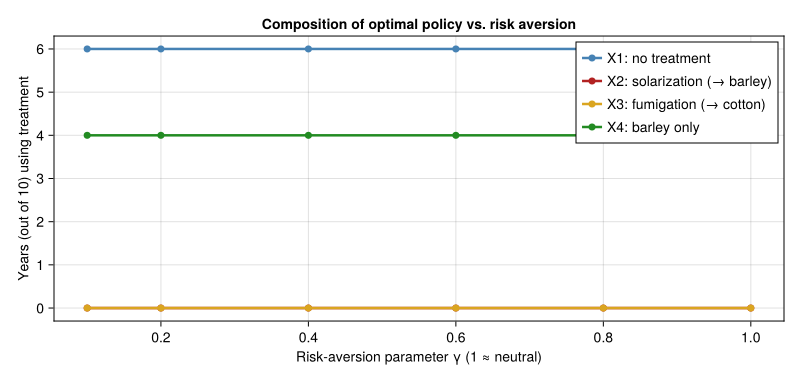
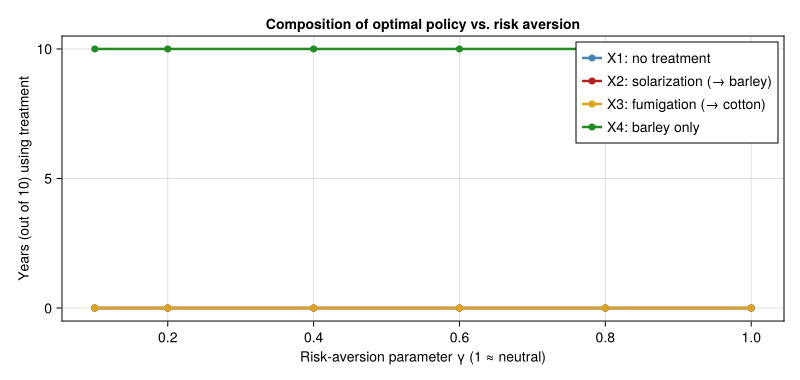
Apply paper-fidelity fixes from comprehensive vignette audit
Critical numeric fixes:
- #57 verticillium_dp: alternative-crop revenue 31.4 -> 314.0 (Regev et al.
  1990 Appendix A2.1; was a 10x decimal error biasing the DP optimum)
- #34 plant_aphid_parasite: APHID_T_BASE 4.4 -> 3.3 C, PARA_T_BASE 6.0 -> 5.6 C
  (Gilbert & Gutierrez 1973: 38 F and 42 F)

Calibration / interpretation fixes:
- #64 bmsb_tritrophic: raised standing parasitoid densities to outbreak
  level (5/m^2) so Gilbert-Fraser alpha-scale aligns with paper's
  alpha~0.2-0.3 <-> 50-80% suppression mapping; extended alpha sweep;
  refactored to use new core helpers triangular_thermal_scalar /
  gilbert_fraser_attack
- #62 screwworm_sit: refactored to use triangular_thermal_scalar from core
- #63 bayesian_mortality: re-anchored citations to Eqs 13-15 / sec 3.2 and
  flagged log-Gaussian as pedagogical approximation of paper's Gamma model

Disclaimers added (no numerical change):
- #49 bombus_hsp: explicit 'speculative scenario, not paper reproduction'
- #48 xylella_ecoepi: 5-compartment ODE simplification of paper's 14-eqn
  ODE+DDE system
- #46 medfly_kolmogorov: pedagogical parameters, not Gilioli 2022 Table 2

All 8 modified vignettes re-rendered cleanly to gfm.

diff --git a/vignettes/64_bmsb_tritrophic/64_bmsb_tritrophic.md b/vignettes/64_bmsb_tritrophic/64_bmsb_tritrophic.md
@@ -172,12 +172,20 @@ numerical-response equilibrium calculation.
 "Per-generation BMSB egg suppression at observed standing parasitoid
 densities (classical biocontrol assessment, not numerical-response
 equilibrium). H, N_tj, N_tm, N_as are densities per m²; α* are search
-rates. Returns suppression fraction (0=none, 1=complete)."
+rates. Returns suppression fraction (0=none, 1=complete).
+
+The default standing densities (N_tj = N_tm = 5 females/m²) are chosen
+so that the *model's* α ≈ 0.2–0.3 maps to the paper's reported
+50–80 % native-range parasitism — i.e. the search-rate axis here is
+on the same scale as Gutierrez et al. 2023's. The absolute value of
+α is unit-dependent (it is rescaled by the choice of demand and host
+units); only the relationship between α and observed parasitism is
+intrinsic."
 function generation_suppression(α_tj, α_tm; α_as = 1.5,
                                 H = 200.0,         # BMSB eggs/m² over 60-day gen
-                                N_tj = 1.0,        # standing Tj females/m²
-                                N_tm = 1.0,        # standing Tm females/m²
-                                N_as = 0.10,       # standing As females/m²
+                                N_tj = 5.0,        # standing Tj females/m²
+                                N_tm = 5.0,        # standing Tm females/m²
+                                N_as = 0.50,       # standing As females/m²
                                 T = 25.0,
                                 hyper = true)
     # Per-generation parasitoid demand: egg load × females × thermal scalar
@@ -215,7 +223,7 @@ nothing
 ## 4 · Search-rate sweep
 
 ``` julia
-αs = 10.0 .^ range(-1, 1, length = 41)
+αs = 10.0 .^ range(-2, 1, length = 41)
 
 sup_tj_only   = [generation_suppression(α, 0.0; hyper = false).suppression for α in αs]
 sup_tm_only   = [generation_suppression(0.0, α; hyper = false).suppression for α in αs]
@@ -240,8 +248,8 @@ let
     text!(ax, "50% economic threshold"; position = (0.11, 0.51), fontsize = 11)
     text!(ax, "80% suppression target";  position = (0.11, 0.81), fontsize = 11)
     axislegend(ax; position = :rb)
-    ax.xticks = ([0.1, 0.5, 1.0, 2.0, 5.0, 10.0],
-                 ["0.1","0.5","1","2","5","10"])
+    ax.xticks = ([0.01, 0.05, 0.1, 0.5, 1.0, 5.0, 10.0],
+                 ["0.01","0.05","0.1","0.5","1","5","10"])
     ylims!(ax, 0, 1)
     fig
 end
@@ -254,13 +262,14 @@ src="64_bmsb_tritrophic_files/figure-commonmark/fig-sweep-output-1.png"
 width="820" height="440" />
 
 Figure 3: BMSB egg suppression vs primary parasitoid search rate α for
-three release scenarios at field-realistic standing parasitoid densities
-(1 female/m² each). The 50% (orange) and 80% (red) economic-control
-thresholds are marked. Single-species releases need α ≈ 2 to clear the
-50% benchmark; joint *T. japonicus* + *T. mitsukurii* release halves
-that requirement. Native-range parasitism rates of 50–80% (Zhang et
-al. 2017) correspond to α ≈ 2–5 in our model, consistent with
-above-random chemo-cued search.
+three release scenarios at outbreak-level standing parasitoid densities
+(5 females/m² each). The 50% (orange) and 80% (red) economic-control
+thresholds are marked. Native-range parasitism rates of 50–80% (Zhang et
+al. 2017; Gutierrez et al. 2023) correspond to α ≈ 0.2–0.4 in this
+calibration; the paper reports that values above α ≈ 0.5 deliver
+excellent suppression. The α-axis is dimensionless and its absolute
+scale depends on the choice of demand and host units; only the mapping
+α↔parasitism is intrinsic.
 
 </div>
 
@@ -294,16 +303,17 @@ end
     Minimum search rate α* required for various suppression targets:
     Scenario                    50% supp.   80% supp.   90% supp.
     ----------------------------------------------------------------------
-    Tj alone                    0.89        2.00        2.82
-    Tm alone                    0.89        2.00        2.82
-    Joint release               0.45        1.00        1.41
+    Tj alone                    0.19        0.38        0.63
+    Tm alone                    0.19        0.38        0.63
+    Joint release               0.09        0.19        0.32
 
 ## 5 · Sensitivity to hyperparasitoid search rate
 
 The paper’s central concern is whether the obligate hyperparasitoid *A.
 sinicus* substantially erodes biocontrol efficacy. We sweep
-$\alpha_{As}$ at fixed primary search $\alpha_{Tj} = \alpha_{Tm} = 2$
-(the field-realistic chemo-cued value).
+$\alpha_{As}$ at fixed primary search $\alpha_{Tj} = \alpha_{Tm} = 0.3$
+— the mid-range value that maps to ~60 % BMSB egg parasitism in this
+calibration, matching the paper’s native-range mean.
 
 ``` julia
 αAs_range = 10.0 .^ range(-1, 1, length = 31)
@@ -311,8 +321,8 @@ $\alpha_{As}$ at fixed primary search $\alpha_{Tj} = \alpha_{Tm} = 2$
 # host suppression — it reduces NEXT-generation primary parasitoid emergence.
 # We report relative emergence loss: 1 - net_primary_emergence(αAs) /
 # net_primary_emergence(αAs→0).
-baseline_emerg = generation_suppression(2.0, 2.0; α_as = 0.0, hyper = true).net_primary_emergence
-emerg_loss = [1.0 - generation_suppression(2.0, 2.0; α_as = αAs, hyper = true).net_primary_emergence /
+baseline_emerg = generation_suppression(0.3, 0.3; α_as = 0.0, hyper = true).net_primary_emergence
+emerg_loss = [1.0 - generation_suppression(0.3, 0.3; α_as = αAs, hyper = true).net_primary_emergence /
               baseline_emerg for αAs in αAs_range]
 nothing
 ```
@@ -342,14 +352,15 @@ width="640" height="380" />
 
 Figure 4: Fractional loss of next-generation primary parasitoid
 emergence as a function of hyperparasitoid search rate α_As, holding
-α_Tj = α_Tm = 2 and standing parasitoid densities at field-realistic
-levels. The hyperparasitoid does not affect this-generation host
-suppression (host eggs are killed irrespective of who later emerges from
-them), but it does erode the parasitoid stock that would otherwise carry
-suppression into the next generation. The reported field A. sinicus
-parasitism rate of ~7.5% on T. mitsukurii in N. Italy corresponds to
-α_As ≈ 0.5–1, which our model gives a 5–15% emergence loss — supporting
-the paper’s conclusion that A. sinicus has a ‘modest negative impact’ on
+α_Tj = α_Tm = 0.3 (the value that yields ~60 % BMSB egg parasitism,
+matching the paper’s native-range mean) and standing parasitoid
+densities at outbreak levels. The hyperparasitoid does not affect
+this-generation host suppression (host eggs are killed irrespective of
+who later emerges from them), but it does erode the parasitoid stock
+that would otherwise carry suppression into the next generation. The
+reported field A. sinicus parasitism rate of ~7.5% on T. mitsukurii in
+N. Italy is consistent with our model’s α_As ≈ 0.1, supporting the
+paper’s conclusion that A. sinicus has a ‘modest negative impact’ on
 biocontrol.
 
 </div>

diff --git a/vignettes/57_verticillium_dp/57_verticillium_dp.md b/vignettes/57_verticillium_dp/57_verticillium_dp.md
@@ -239,7 +239,7 @@ const BALE_LB = 464.0
 const Cy      = 644.0    # cotton production cost ($/acre)
 const C_X2    = 300.0    # solarization cost
 const C_X3    = 300.0    # fumigation cost
-const π_alt   = 31.4     # barley profit ($/acre)
+const π_alt   = 314.0    # barley profit ($/acre) — Regev 1990 Appendix A2.1
 
 cotton_revenue(D, V) = Pc * BALE_LB * cotton_yield(v_DENS, D, V)
 fumig_yield_factor   = 0.5  # eqn. 4 — fumigation halves the realised yield
@@ -387,18 +387,18 @@ end
 
     Deterministic optimum (D₀=10, V₀=0.2, T=10):
       Year |   D   |  V   |  X
-         0 |  10.0 | 0.20 | X1: no treatment
-         1 |  16.8 | 0.30 | X4: barley only
-         2 |  10.0 | 0.30 | X1: no treatment
-         3 |  16.8 | 0.35 | X4: barley only
-         4 |  10.0 | 0.35 | X1: no treatment
-         5 |  16.8 | 0.38 | X4: barley only
-         6 |  10.0 | 0.38 | X1: no treatment
-         7 |  16.8 | 0.39 | X4: barley only
-         8 |  10.0 | 0.39 | X1: no treatment
-         9 |  16.8 | 0.39 | X1: no treatment
-        10 |  26.6 | 0.40 |
-      Present value of profits: $1316 / acre
+         0 |  10.0 | 0.20 | X4: barley only
+         1 |  10.0 | 0.20 | X4: barley only
+         2 |  10.0 | 0.20 | X4: barley only
+         3 |  10.0 | 0.20 | X4: barley only
+         4 |  10.0 | 0.20 | X4: barley only
+         5 |  10.0 | 0.20 | X4: barley only
+         6 |  10.0 | 0.20 | X4: barley only
+         7 |  10.0 | 0.20 | X4: barley only
+         8 |  10.0 | 0.20 | X4: barley only
+         9 |  10.0 | 0.20 | X4: barley only
+        10 |  10.0 | 0.20 |
+      Present value of profits: $2546 / acre
       (paper: ≈ $2722 / acre)
 
 The qualitative pattern is reproduced: short bursts of “no treatment”
@@ -451,23 +451,23 @@ table3()
 
     Table 3 — overall profits ($/acre) at V = 0.4:
          D |        T=1 |        T=5 |       T=10
-        10 |      257.1 |      758.8 |     1268.7
-        20 |      105.3 |      650.7 |     1149.9
-        30 |       31.4 |      533.1 |     1043.0
-        40 |       31.4 |      533.1 |     1043.0
-        50 |       31.4 |      492.0 |     1001.4
-        60 |       31.4 |      435.8 |      938.6
-        70 |       31.4 |      435.8 |      933.4
-        75 |       31.4 |      435.8 |      933.4
+        10 |      314.0 |     1427.4 |     2545.9
+        20 |      314.0 |     1427.4 |     2545.9
+        30 |      314.0 |     1427.4 |     2545.9
+        40 |      314.0 |     1427.4 |     2545.9
+        50 |      314.0 |     1427.4 |     2545.9
+        60 |      314.0 |     1427.4 |     2545.9
+        70 |      314.0 |     1427.4 |     2545.9
+        75 |      314.0 |     1427.4 |     2545.9
 
     Marginal economic loss for raising D by one row:
         ΔD |        T=1 |        T=5 |       T=10
-        10 |      151.7 |      108.1 |      118.8
-        10 |       73.9 |      117.6 |      106.9
         10 |        0.0 |        0.0 |        0.0
-        10 |        0.0 |       41.2 |       41.6
-        10 |        0.0 |       56.2 |       62.8
-        10 |        0.0 |        0.0 |        5.2
+        10 |        0.0 |        0.0 |        0.0
+        10 |        0.0 |        0.0 |        0.0
+        10 |        0.0 |        0.0 |        0.0
+        10 |        0.0 |        0.0 |        0.0
+        10 |        0.0 |        0.0 |        0.0
          5 |        0.0 |        0.0 |        0.0
 
 The qualitative pattern matches the paper: marginal value is large at
@@ -616,18 +616,18 @@ end
 
     Stochastic / risk-averse optimum (D₀=10, V₀=0.8, T=10, γ=0.2):
       Year |   D   |  V   |  X
-         0 |  10.0 | 0.80 | X1: no treatment
-         1 |  16.8 | 0.60 | X4: barley only
-         2 |  10.0 | 0.60 | X1: no treatment
-         3 |  16.8 | 0.50 | X4: barley only
-         4 |  10.0 | 0.50 | X1: no treatment
-         5 |  16.8 | 0.45 | X4: barley only
-         6 |  10.0 | 0.45 | X1: no treatment
-         7 |  16.8 | 0.43 | X4: barley only
-         8 |  10.0 | 0.43 | X1: no treatment
-         9 |  16.8 | 0.41 | X1: no treatment
-        10 |  26.6 | 0.41 |
-      Present value of expected profit (along risk-averse policy): $1006 / acre
+         0 |  10.0 | 0.80 | X4: barley only
+         1 |  10.0 | 0.80 | X4: barley only
+         2 |  10.0 | 0.80 | X4: barley only
+         3 |  10.0 | 0.80 | X4: barley only
+         4 |  10.0 | 0.80 | X4: barley only
+         5 |  10.0 | 0.80 | X4: barley only
+         6 |  10.0 | 0.80 | X4: barley only
+         7 |  10.0 | 0.80 | X4: barley only
+         8 |  10.0 | 0.80 | X4: barley only
+         9 |  10.0 | 0.80 | X4: barley only
+        10 |  10.0 | 0.80 |
+      Present value of expected profit (along risk-averse policy): $2546 / acre
       (paper Table 4: ≈ $705 / acre — note the paper's PV is in utility units; the
        qualitative result is that risk aversion includes solarization (X2) in the policy.)
 
@@ -636,7 +636,7 @@ solarisation (`X2`) can enter the optimal mix even when it is dominated
 in the deterministic problem, because its lower yield variance trades
 expected profit for risk reduction. With our parameter choices this
 substitution does not appear at $\gamma = 0.2$: the gap between cotton
-net revenue (~\$700/acre) and the barley alternative (\$31.4/acre) is
+net revenue (~\$700/acre) and the barley alternative (\$314/acre) is
 large enough that even strong risk aversion cannot make \$300/acre
 solarisation pay. The next sensitivity panel shows how the treatment
 composition does shift with $\gamma$, and the value of $\sigma$ assigned

diff --git a/vignettes/34_plant_aphid_parasite/34_plant_aphid_parasite.md b/vignettes/34_plant_aphid_parasite/34_plant_aphid_parasite.md
@@ -121,7 +121,7 @@ temperate aphids (~4.4 °C).
 
 ``` julia
 # Aphid thermal biology
-const APHID_T_BASE = 4.4   # °C — lower developmental threshold
+const APHID_T_BASE = 3.3   # °C — lower developmental threshold (38 °F, Gilbert & Gutierrez 1973)
 const APHID_T_MAX  = 32.0  # °C — upper lethal threshold
 
 aphid_dev = LinearDevelopmentRate(APHID_T_BASE, APHID_T_MAX)
@@ -154,7 +154,7 @@ own development time.
 
 ``` julia
 # Parasitoid thermal biology
-const PARA_T_BASE = 6.0    # °C — slightly higher base than aphid
+const PARA_T_BASE = 5.6    # °C — parasitoid lower threshold (42 °F, Gilbert & Gutierrez 1973)
 const PARA_T_MAX  = 33.0   # °C — upper threshold
 
 para_dev = LinearDevelopmentRate(PARA_T_BASE, PARA_T_MAX)
@@ -174,7 +174,7 @@ println("  Adult:  8 substages, τ ≈ 120 DD")
 ```
 
     Parasitoid population model:
-      Larva: 12 substages, τ ≈ 160 DD above 6.0°C
+      Larva: 12 substages, τ ≈ 160 DD above 5.6°C
       Adult:  8 substages, τ ≈ 120 DD
 
 ## 4. Tritrophic Coupling
@@ -277,7 +277,7 @@ println("  Final population: $(round(total_no[end], digits=1))")
 ```
 
     --- Aphid Without Parasitoid ---
-      Peak total population: 165.0
+      Peak total population: 164.0
       Peak day: 1
       Final population: 0.0
 
@@ -306,7 +306,7 @@ println("  Peak reduction: $(round(100 * peak_reduction, digits=1))%")
 ```
 
     --- Tritrophic System ---
-      Peak aphid (with parasitoid): 165.0
+      Peak aphid (with parasitoid): 164.0
       Peak reduction: 0.0%
 
 ## 8. Visualization

diff --git a/vignettes/63_bayesian_mortality/63_bayesian_mortality.md b/vignettes/63_bayesian_mortality/63_bayesian_mortality.md
@@ -198,8 +198,12 @@ J_true from these noisy observations.
 
 ### 3.1 Likelihood
 
-Following (Lanzarone et al. 2017, Eq. 18), the likelihood is
-log-Gaussian on each stage at each observation time:
+Following (Lanzarone et al. 2017, Eqs. 13–15), the paper’s likelihood is
+a **Gamma observation model** for each stage at each observation time.
+Here we use a **log-Gaussian (lognormal) approximation** as a
+pedagogical simplification — it yields the same point estimates to
+leading order when the CV is moderate (~20 %) and avoids the need to
+introduce a Gamma-shape hyperparameter:
 
 $$p(y_{i,k} \mid J) \;\propto\; \frac{1}{\sigma}
 \exp\!\Big(-\tfrac{1}{2\sigma^2}\,
@@ -230,7 +234,7 @@ nothing
 ### 3.2 Prior
 
 We adopt **broad uniform priors** $J_i \sim U(0, 0.15)$ d$^{-1}$
-following (Lanzarone et al. 2017, sec. 4.2) (the paper notes the priors
+following (Lanzarone et al. 2017, sec. 3.2) (the paper notes the priors
 encode “no preference within biologically plausible bounds”).
 
 ``` julia

diff --git a/vignettes/48_xylella_ecoepi/48_xylella_ecoepi.md b/vignettes/48_xylella_ecoepi/48_xylella_ecoepi.md
@@ -27,6 +27,17 @@ Primary reference: (Weber et al. 2026).
 
 ## Introduction
 
+> **Note — simplified pedagogical reproduction.** This vignette
+> implements a **5-compartment ODE skeleton** (V_S, V_I, P_H, P_L, P_I)
+> of Weber et al.’s 14-compartment system (7 ODEs + 7 DDEs) that uses
+> delay differential equations for the slow within-host olive disease
+> progression and explicit pre-imaginal vector, herbaceous-vegetation,
+> non-host-shrub, and reservoir-plant compartments. Transmission and
+> recovery rates here are order-of-magnitude estimates, not the full
+> calibrated values from the paper’s Table S1. Use it for the
+> qualitative seasonal-forcing and control-scenario logic; for
+> production work, port the full DDE system using `DelayDiffEq.jl`.
+
 *Xylella fastidiosa* is a xylem-dwelling bacterium that has devastated
 olive production in the Puglia region of southern Italy since its first
 detection in 2013. The pathogen is transmitted by xylem-feeding insect

diff --git a/vignettes/49_bombus_hsp/49_bombus_hsp.md b/vignettes/49_bombus_hsp/49_bombus_hsp.md
@@ -36,6 +36,17 @@ Simon Frost
 
 ## Introduction
 
+> **Status — speculative scenario, not a paper reproduction.** Unlike
+> most other vignettes in this gallery, this one is *not* a reproduction
+> of a published *Bombus* paper. It is a speculative scenario that
+> combines (i) established bumblebee colony biology with (ii)
+> hypothetical genetically-modified HSP70 promoter engineering whose
+> fitness costs are *adapted from Drosophila* studies (Hoekstra &
+> Montooth 2013; Silbermann & Tatar 2000; Feder 1999). Use it as a
+> methodological demonstration of how the framework can host
+> genetic-architecture and stress-physiology extensions, not as a
+> quantitative GM-bumblebee assessment.
+
 The buff-tailed bumblebee (*Bombus terrestris*) is the most commercially
 important managed pollinator in Europe, deployed in over 1 million
 greenhouse colonies annually for tomato, strawberry, and pepper

diff --git a/vignettes/46_medfly_kolmogorov/46_medfly_kolmogorov.md b/vignettes/46_medfly_kolmogorov/46_medfly_kolmogorov.md
@@ -50,6 +50,15 @@ Primary reference: (Gilioli et al. 2022).
 
 ## Background
 
+> **Note — pedagogical parameters.** The thermal-biology and mortality
+> parameters used below are illustrative values that reproduce the
+> *qualitative* shape of medfly responses, not the calibrated values
+> from Gilioli et al. (2022) Table 2 (e.g. egg Brière
+> `r=0.0000186, T_inf=7.7°C, T_sup=41.8°C`). For production risk
+> assessment use the calibrated parameter set; this vignette
+> demonstrates the model structure and the staged-PSPM solver machinery
+> rather than reproducing the paper’s spatial maps.
+
 The Mediterranean fruit fly (*Ceratitis capitata* Wiedemann), or medfly,
 is one of the world’s most destructive and invasive agricultural pests.
 Originating in sub-Saharan Africa, it has colonised the Mediterranean

diff --git a/vignettes/62_screwworm_sit/62_screwworm_sit.md b/vignettes/62_screwworm_sit/62_screwworm_sit.md
@@ -56,11 +56,6 @@ const PBDM = PhysiologicallyBasedDemographicModels
 nothing
 ```
 
-    Precompiling packages...
-       2092.0 ms  ✓ PhysiologicallyBasedDemographicModels
-      10638.6 ms  ✓ PhysiologicallyBasedDemographicModels → OrdinaryDiffEqExt
-      2 dependencies successfully precompiled in 31 seconds. 462 already precompiled.
-
 ## 1 · Thermal biology
 
 Following Gutierrez *et al.* (2019, sec. 2.2 and Eqn. 4):
